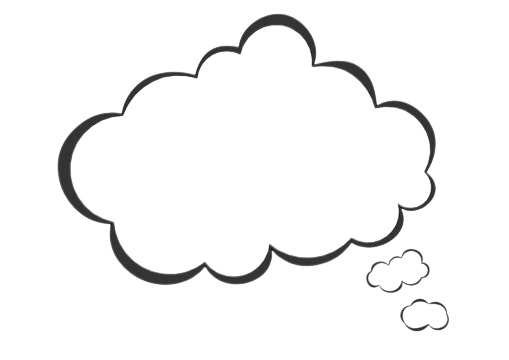
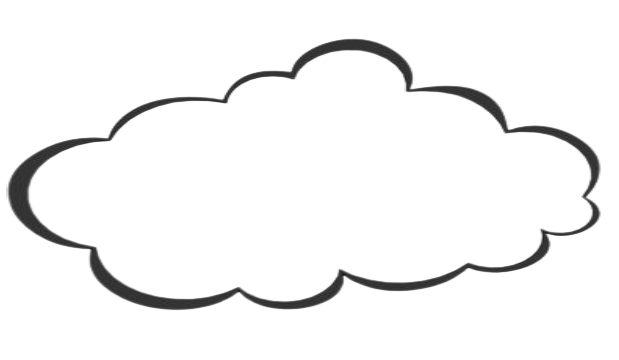
cleaned up landing page

diff --git a/portfolio-website/src/App.css b/portfolio-website/src/App.css
@@ -1,38 +1,95 @@
-.App {
+/* App.css */
+
+/* Basic Reset */
+body,
+html {
+  margin: 0;
+  padding: 0;
+  font-family: "Arial", sans-serif;
+  color: #090904;
+  overflow-x: hidden;
+}
+
+/* Background Layer */
+.background-layer {
+  display: flex;
+  align-items: center;
+  justify-content: center;
+  background-color: #090904; /* Dark background */
+}
+
+.title {
+  color: #f0f8ff;
+  font-size: 3em;
   text-align: center;
 }
 
-.App-logo {
-  height: 40vmin;
-  pointer-events: none;
+/* Thought Bubble */
+.thought-bubble-layer {
+  display: flex;
+  justify-content: center;
+  align-items: center;
 }
 
-@media (prefers-reduced-motion: no-preference) {
-  .App-logo {
-    animation: App-logo-spin infinite 20s linear;
+.thought-bubble {
+  width: 150px;
+  animation: float 6s ease-in-out infinite;
+}
+
+.bottom-button {
+  background-color: #c8cec9;
+  padding: 15px 30px;
+  border: none;
+  border-radius: 8px;
+  box-shadow: 0 4px 8px rgba(0, 0, 0, 0.3);
+  cursor: pointer;
+  transition: transform 0.2s, box-shadow 0.2s;
+}
+
+.bottom-button:hover {
+  transform: translateY(-3px);
+  box-shadow: 0 6px 12px rgba(0, 0, 0, 0.3);
+}
+
+.bottom-button:active {
+  transform: translateY(0);
+  box-shadow: 0 4px 8px rgba(0, 0, 0, 0.3);
+}
+
+/* Link Styles */
+.button-link {
+  color: #ffffff;
+  font-size: 1.25em;
+  font-weight: bold;
+  text-decoration: none;
+}
+
+@keyframes float {
+  0%,
+  100% {
+    transform: translateY(0);
+  }
+  50% {
+    transform: translateY(-10px);
   }
 }
 
-.App-header {
-  background-color: #282c34;
-  min-height: 100vh;
+/* Question Layers with Cloud Background */
+.cloud {
+  background-image: url("./assets/thoughtbubble.png"); /* Path to cloud image */
+  background-size: contain;
+  background-repeat: no-repeat;
+  background-position: center;
   display: flex;
-  flex-direction: column;
   align-items: center;
   justify-content: center;
-  font-size: calc(10px + 2vmin);
-  color: white;
+  padding: 40px; /* Adds space around question text */
 }
 
-.App-link {
-  color: #61dafb;
-}
-
-@keyframes App-logo-spin {
-  from {
-    transform: rotate(0deg);
-  }
-  to {
-    transform: rotate(360deg);
-  }
+.question-text {
+  font-size: 2em;
+  color: #333;
+  text-align: center;
+  padding: 20px;
+  border-radius: 8px;
 }

diff --git a/portfolio-website/src/App.js b/portfolio-website/src/App.js
@@ -1,73 +1,56 @@
+// App.js
+import React from "react";
 import { Parallax, ParallaxLayer } from "@react-spring/parallax";
-import tyler from "./assets/tyler-removebg-preview.png";
-import thought from "./assets/thoughtbubble.png";
-import land from "./assets/landbetter.jpg";
-import moon from "./assets/moon.jpg";
-import thinking from "./assets/thinking.png"
-import idea from "./assets/idea.png"
 import { Link } from "react-router-dom";
-import './App.css';
+import thoughtBubble from "./assets/thoughtbubble.png"; // Thought bubble image
+import "./App.css";
 
 function App() {
   return (
-    <Parallax pages={5}>
+    <Parallax pages={4} style={{ backgroundColor: "#090904" }}>
+      {/* Background layer */}
+      <ParallaxLayer offset={0} speed={1} className="background-layer">
+        <h1 className="title">Welcome to Tyler's World</h1>
+      </ParallaxLayer>
+
+      {/* Question Layer 1 */}
       <ParallaxLayer
-        offset={0}
-        speed={1}
-        factor={2.1}
-        style={{
-          backgroundImage: `url(${moon})`,
-          backgroundSize: "cover",
-        }}
-      ></ParallaxLayer>
+        offset={0.7}
+        speed={0.8}
+        factor={1.1}
+        className="background-layer question-layer cloud"
+      >
+        <h2 className="question-text">Who is Tyler?</h2>
+      </ParallaxLayer>
+
+      {/* Question Layer 2 */}
+      <ParallaxLayer
+        offset={1.3}
+        speed={0.7}
+        factor={1.1}
+        className="background-layer question-layer cloud"
+      >
+        <h2 className="question-text">What does Tyler develop?</h2>
+      </ParallaxLayer>
+
+      {/* Question Layer 3 */}
+      <ParallaxLayer
+        offset={2}
+        speed={0.6}
+        factor={1.1}
+        className="background-layer question-layer cloud"
+      >
+        <h2 className="question-text">Where is Tyler going?</h2>
+      </ParallaxLayer>
+
       <ParallaxLayer
         offset={3}
-        speed={1}
-        factor={3}
-        style={{
-          backgroundImage: `url(${land})`,
-          backgroundSize: "cover",
-        }}
-      ></ParallaxLayer>
-      <ParallaxLayer
-        className="linear-gradient"
-        offset={1}
-        factor={4.1}
-        speed={1}
-      ></ParallaxLayer>
-      <ParallaxLayer className="cloud" 
-        offset={0.35}
-        speed={0.1}
-        >
-        <img src={thought} className="img-fluid image" alt="..."></img>
-        <h1 className="text">Who is Tyler Du?</h1>
-      </ParallaxLayer>
-      <ParallaxLayer sticky={{ start: 0.5, end: 1.9 }} className="thinking" 
-       offset={0.6}
-       >
-        <img src={thinking} alt="..." />
-      </ParallaxLayer>
-      <ParallaxLayer
-        offset={4}
-        speed={1.2}
-        className="tyler-happy"
+        speed={0}
+        className="background-layer question-layer"
       >
-        <img src={tyler} alt="tyler_happy" />
-      </ParallaxLayer>
-      <ParallaxLayer
-      offset={4}
-      speed={1.1}
-      className="lightbulb"
-      >
-        <img src={idea} alt="lightbulb"/>
-      </ParallaxLayer>
-      <ParallaxLayer
-      offset={4.4}
-      speed={1.5}
-      >
-        <div className="text-center">
-          <Link to={`/home`} className="btn btn-success btn-lg">Click here to find out!</Link>
-        </div>
+        <Link to={`/home`} className="bottom-button button-link">
+          Click here to find out!
+        </Link>
       </ParallaxLayer>
     </Parallax>
   );